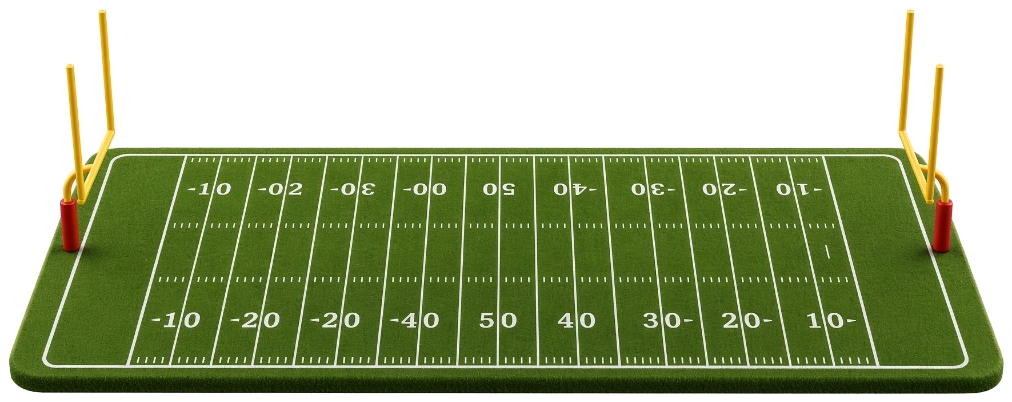
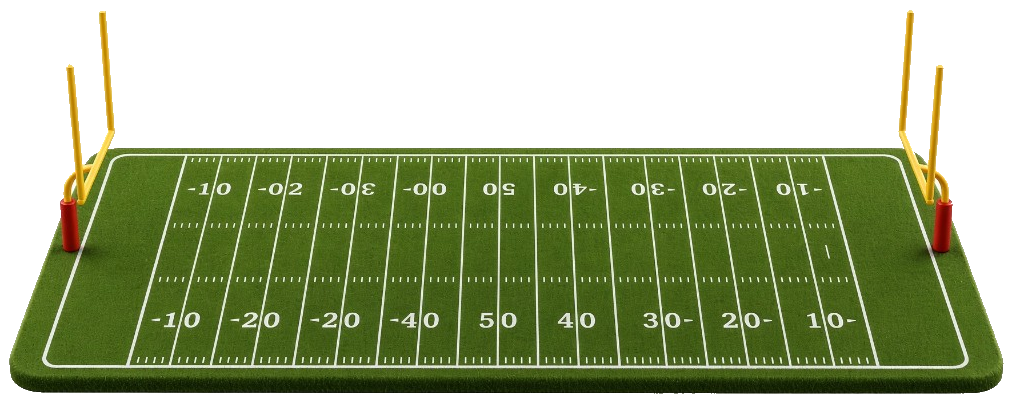
Strip the white fringe off the Gamecast field cutout.
The keyed silhouette was keeping a pale blend on the far sideline and the goalposts, which read as a halo on the hero.

Changed region(s): [[0.8883, 0.3284, 0.919, 0.3881], [0.0919, 0.3582, 0.1225, 0.3881]]

diff --git a/src/utils/appBuildInfo.js b/src/utils/appBuildInfo.js
@@ -1,5 +1,5 @@
 /** Semantic version for EdgeTilt web & platform. */
-export const APP_VERSION = '1.4.598'
+export const APP_VERSION = '1.4.599'
 
 /** Short git SHA baked in at `vite build` / Vercel deploy (`VERCEL_GIT_COMMIT_SHA`). */
 export const APP_BUILD_SHA = String(import.meta.env.VITE_BUILD_SHA || 'unknown')

diff --git a/docs/test-buildout-backlog.md b/docs/test-buildout-backlog.md
@@ -1152,6 +1152,7 @@ Creators need to know when someone subscribes. **Shipped v1 (2026-07-21):** **`c
 - **2026-09-24:** **Remove Gamecast field endzone overlay boxes (Mac).** Dropped translucent team-color boxes and vertical abbrevs so clean 3D turf and endlines show through. Web **`1.4.597`**.
 - **2026-09-24:** **Floating Gamecast field in hero (Mac).** Replaced 64px 2D bar with panoramic floating field diorama asset (`gamecast-field-floating.png`) stretching edge-to-edge with uprights barely in frame; dynamic team-color endzones, scrimmage line (sky-blue), 1st down line (yellow), and football ball marker. Web **`1.4.596`**.
 - **2026-09-24:** **Gamecast field swap (Mac).** Replaced the diorama with a clean white-keyed render (`gamecast-field-floating.png`). Goalposts stay in the source pixels (no vector overlay). Scrimmage plane retargeted to this cutout: turf `top 36.8%` / `height 56.7%`, goal line to goal line `15.4%`–`84.0%` at mid-turf depth. Web **`1.4.598`**.
+- **2026-09-24:** **Gamecast field defringe (Mac).** Stripped the leftover white-blend pixels on the silhouette (far sideline and goalpost edges) so the cutout no longer halos on dark or tinted hero backgrounds. Web **`1.4.599`**.
 - **2026-09-24:** **Hub live timeouts + possession football (Mac).** Hero shows 3 timeout dots under each score (filled = remaining, hollow = used) + football icon on the inner side of the team with the ball. Live state gains `home_timeouts` / `away_timeouts` (Rundown + ESPN situation). Redeploy Edge **`lounge-sports-scoreboard`**. Web **`1.4.595`**.
 - **2026-09-24:** **Hide hub bets/$ bar while live (Mac).** `HeroPublicBetting` returns null when `game.status === 'in'`. Web **`1.4.594`**.
 - **2026-09-24:** **Dump game hub coliseum canvas (Mac).** Removed R3F/Three stadium + deps; restored slim CSS FieldViz. Web **`1.4.593`**.
